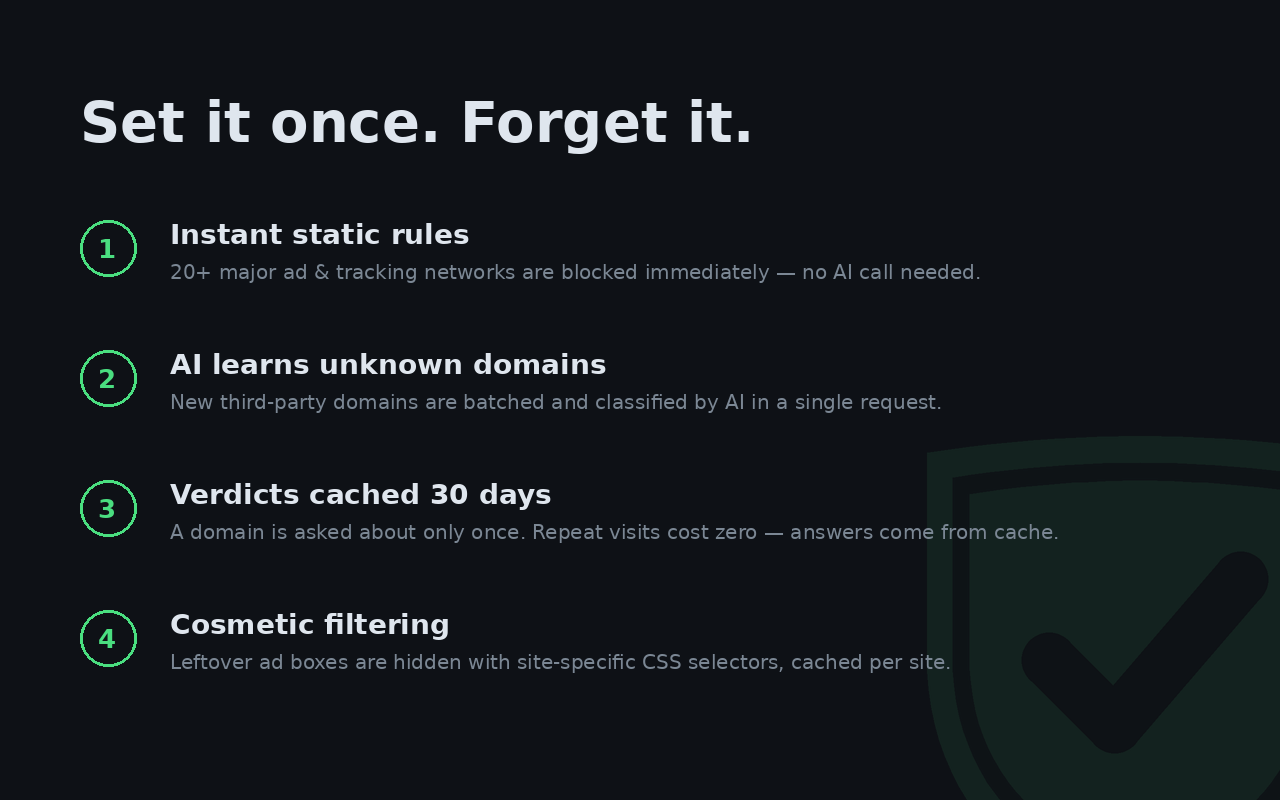
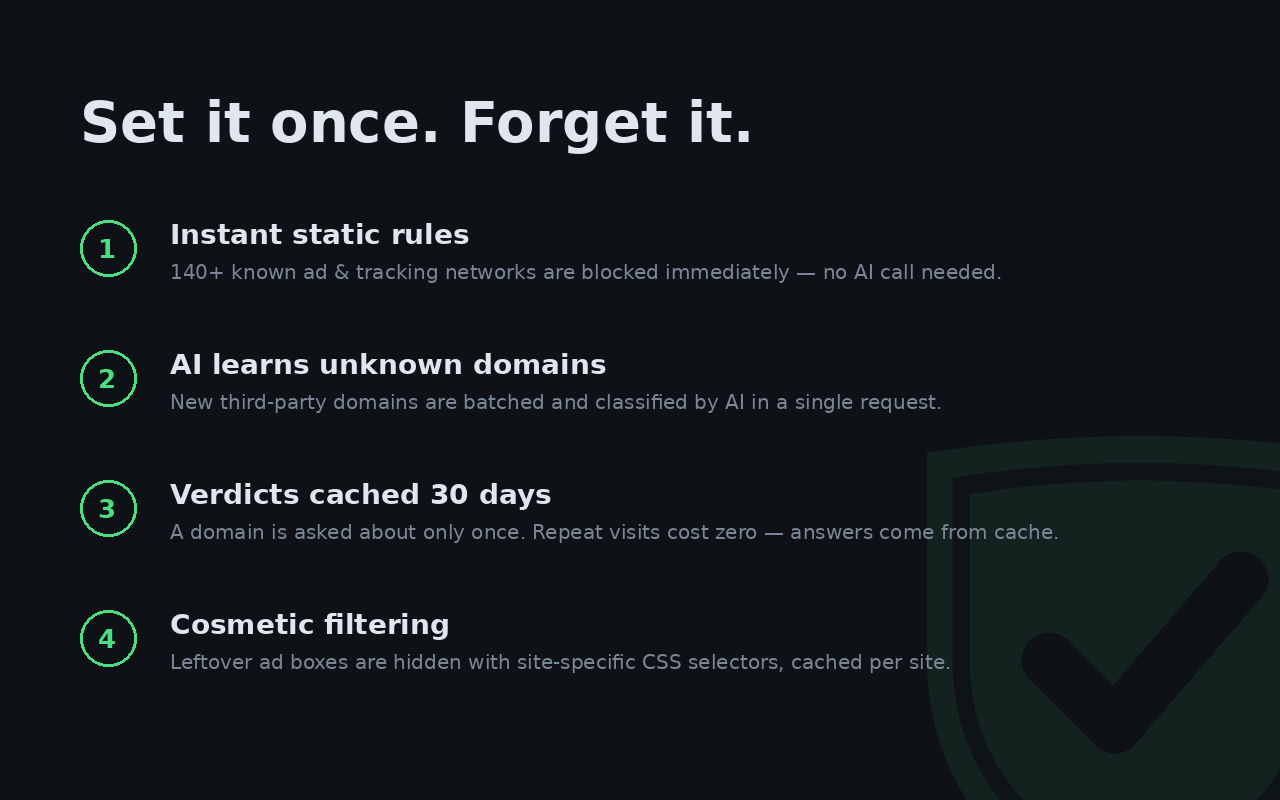
Statik engel listesi 20'den 148 kurala genişletildi
- 107 reklam ağı (Google ads altyapısı, SSP/DSP/exchange'ler, video/native/
  popunder ağları, TR ağları: AdMatic, ReklamStore) + 41 izleyici/analitik
  (Adobe/Oracle/Salesforce veri pazarları, oturum kaydı, ölçüm servisleri)
- Yanlış pozitif riski taşıyanlar bilinçli hariç: connect.facebook.net (FB Login),
  googletagmanager, anti-bot servisleri, mobil attribution (adjust/appsflyer/branch)
- Sosyal medya reklam uçları alt alan bazlı eklendi (ana servisleri kırmaz)
- README + mağaza metinleri ve 2. ekran görüntüsü "140+" olarak güncellendi

Changed region(s): [[0.125, 0.3125, 0.7812, 0.375]]

diff --git a/README.md b/README.md
@@ -7,7 +7,7 @@ Kendi kendine öğrenen, yapay zekâ destekli, sıfır-ayar reklam engelleyici.
 
 ## Nasıl çalışır?
 
-1. **Anında engelleme** — Bilinen 20 büyük reklam/izleme ağı `rules_static.json` içindeki
+1. **Anında engelleme** — Bilinen 140'tan fazla reklam/izleme ağı `rules_static.json` içindeki
    `declarativeNetRequest` kurallarıyla, AI'a hiç sorulmadan tarayıcı motorunda engellenir.
 2. **AI öğrenmesi** — Sayfalardaki *tanınmayan* üçüncü taraf alan adları kuyruğa alınır ve
    toplu halde (15'erli) seçtiğiniz AI sağlayıcısına tek istekle sorulur: `block` mı `allow` mu?
